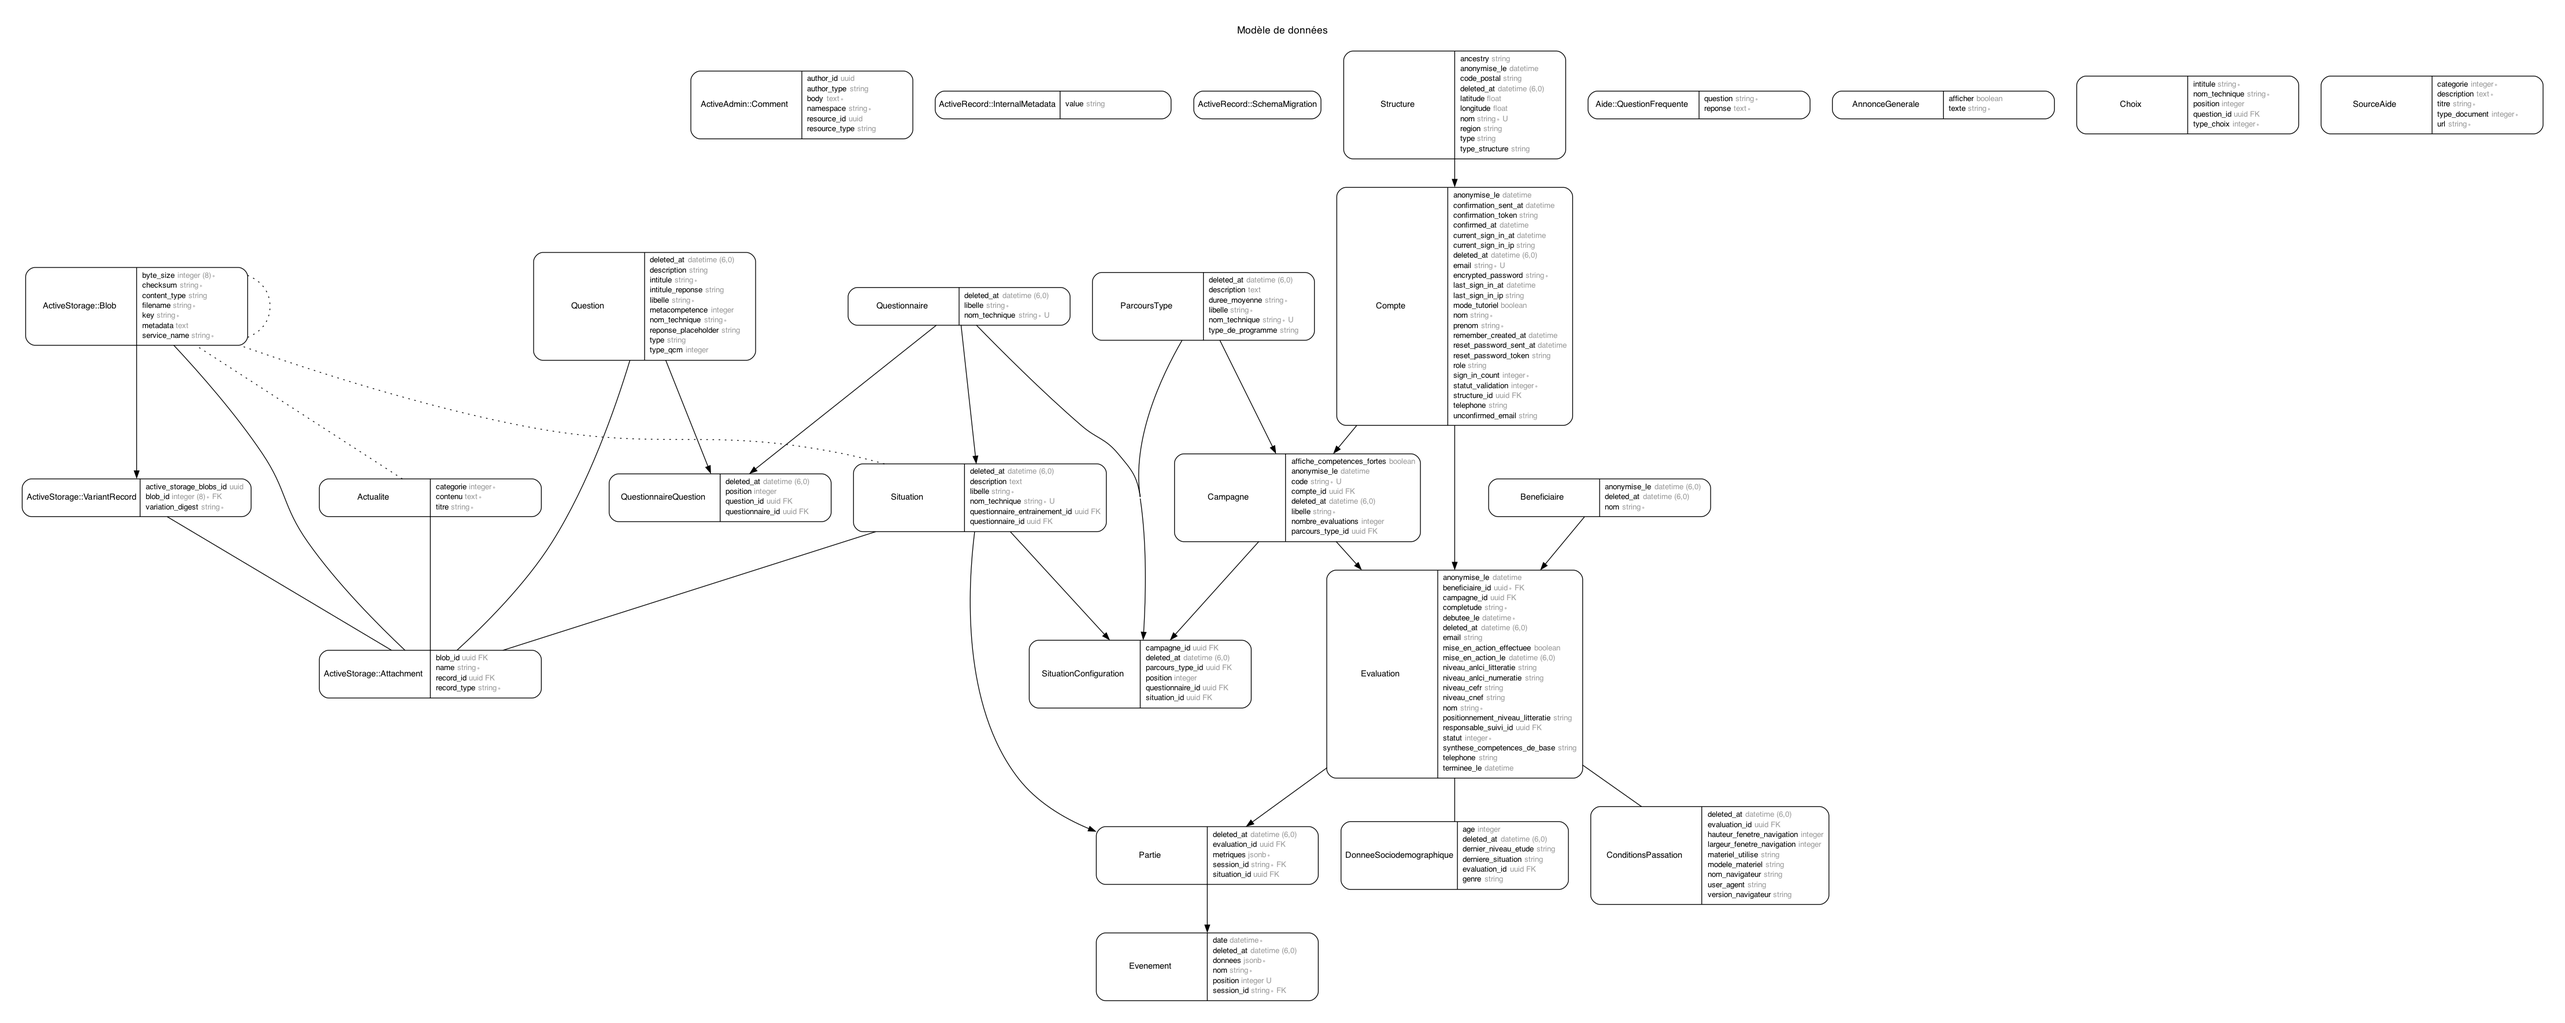
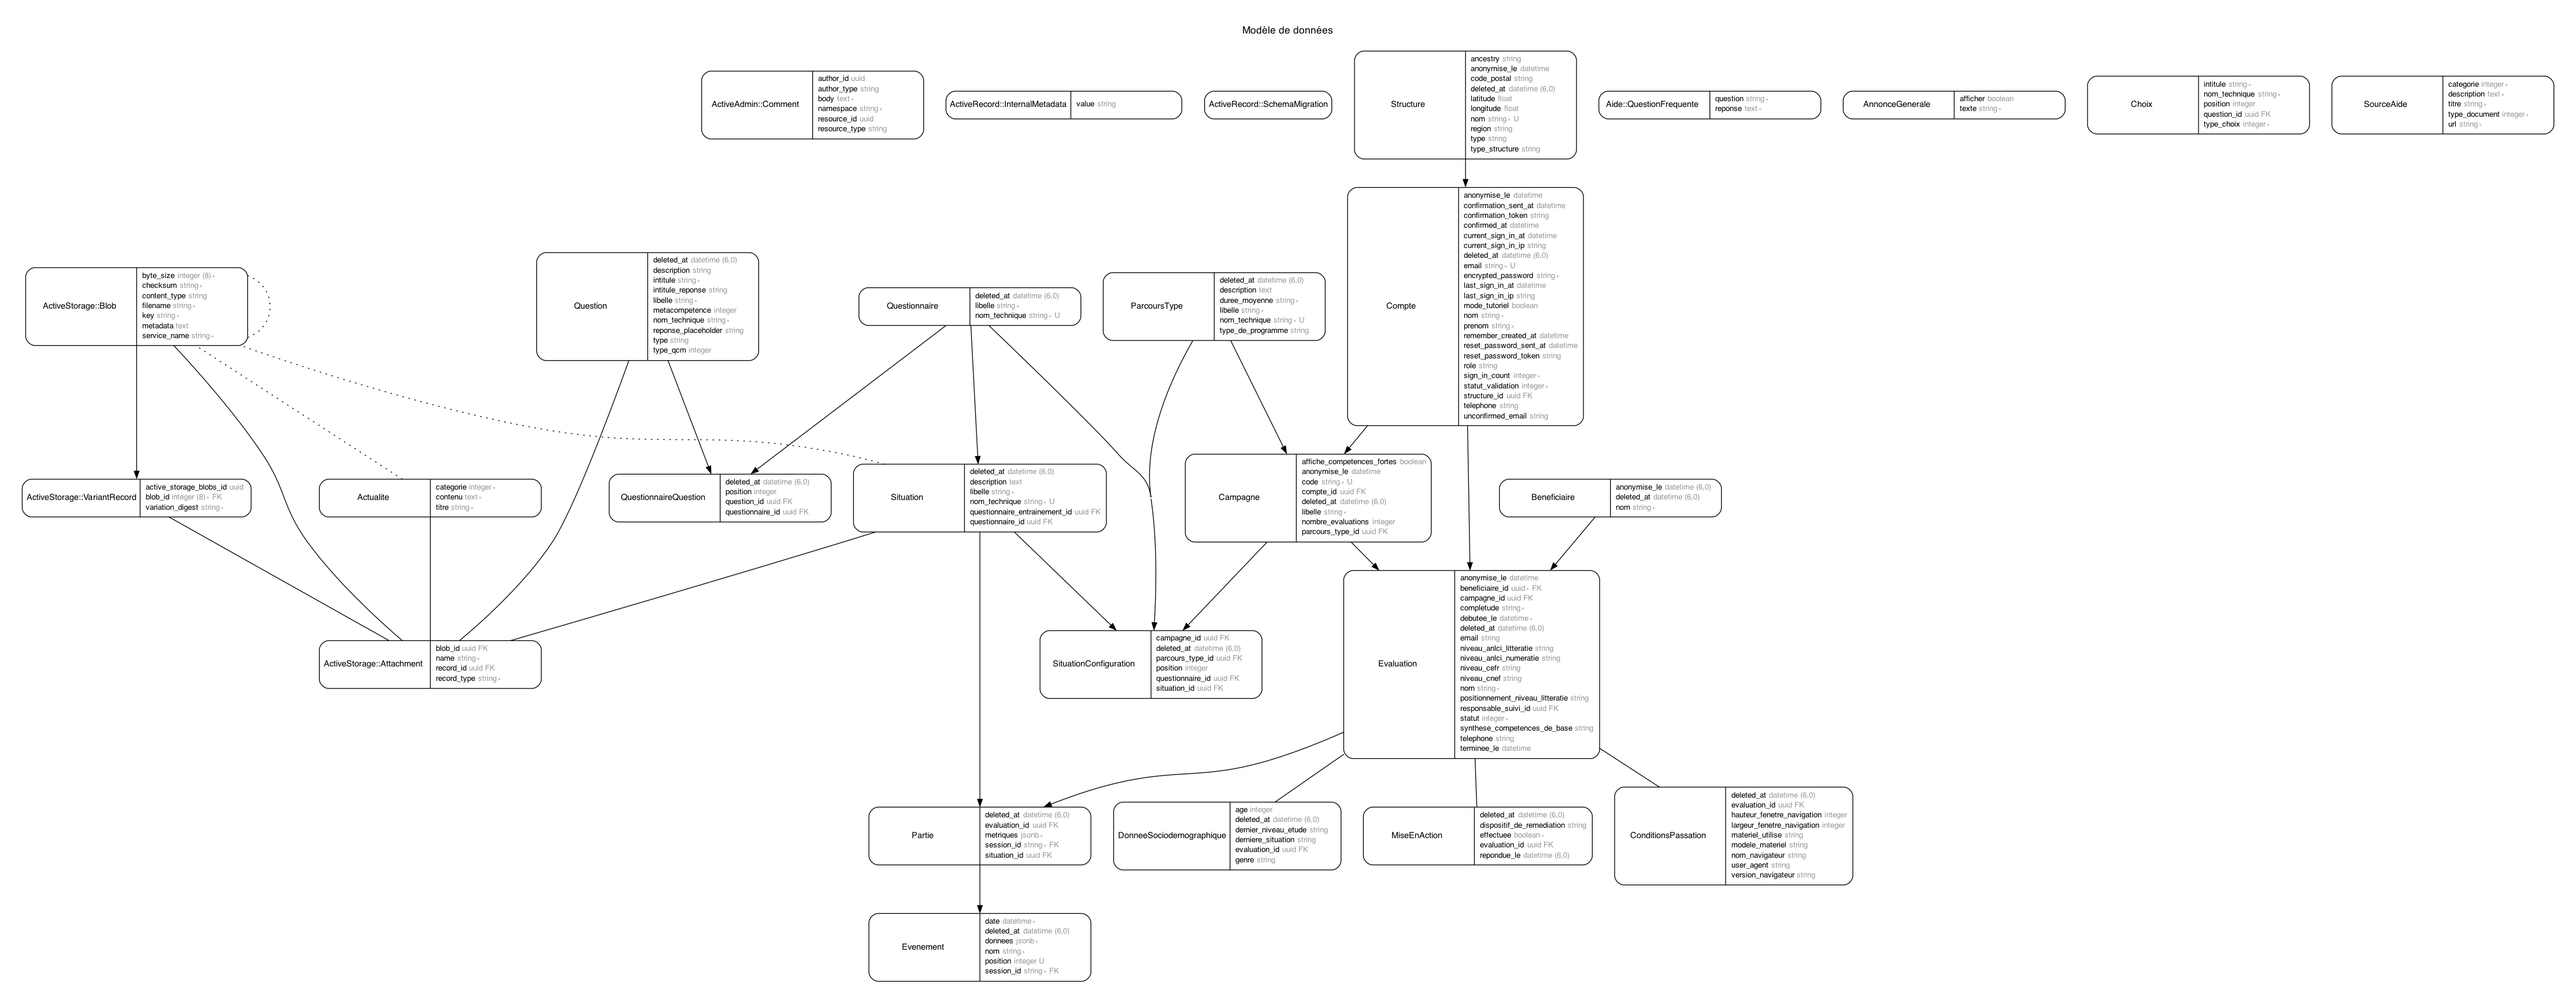
:building_construction: Créé modèle mise en action

diff --git a/spec/models/evaluation_spec.rb b/spec/models/evaluation_spec.rb
@@ -73,4 +73,92 @@ describe Evaluation do
       expect(evaluation.responsables_suivi).to contain_exactly(compte1, compte2)
     end
   end
+
+  describe '#enregistre_mise_en_action' do
+    context 'lorsque la mise en action existe déjà' do
+      let(:date_mise_en_action) { Time.zone.local(2022, 1, 1, 12, 0, 0) }
+      let!(:evaluation) do
+        create :evaluation, :avec_mise_en_action, repondue_le: date_mise_en_action
+      end
+
+      before { evaluation.enregistre_mise_en_action(false) }
+
+      it 'met à jour la réponse mais pas la date de mise en action' do
+        expect(evaluation.reload.mise_en_action.effectuee).to eq false
+        expect(evaluation.reload.mise_en_action.repondue_le).to eq date_mise_en_action
+      end
+    end
+
+    context "quand il n'y a pas de mise en action associée" do
+      let!(:evaluation) { create :evaluation }
+
+      it 'créé et enregistre true en réponse' do
+        date_du_jour = Time.zone.local(2023, 1, 1, 12, 0, 0)
+        Timecop.freeze(date_du_jour) do
+          evaluation.enregistre_mise_en_action(true)
+        end
+        expect(evaluation.mise_en_action.effectuee).to eq true
+        expect(evaluation.mise_en_action.repondue_le).to eq date_du_jour
+      end
+
+      it 'créé et enregistre false en réponse' do
+        evaluation.enregistre_mise_en_action(false)
+        expect(evaluation.mise_en_action.effectuee).to eq false
+      end
+    end
+  end
+
+  describe '#a_mise_en_action?' do
+    context "quand aucune mise en action n'est associée à l'évaluation" do
+      let!(:evaluation) { create :evaluation }
+
+      it { expect(evaluation.a_mise_en_action?).to eq false }
+    end
+
+    context "quand une mise en action est associée à l'évaluation" do
+      context 'quand la mise en action a été effectué' do
+        let!(:evaluation) { create :evaluation, :avec_mise_en_action }
+
+        it { expect(evaluation.a_mise_en_action?).to eq true }
+      end
+
+      context "quand la mise en action n'a pas été effectué" do
+        let!(:evaluation) { create :evaluation, :avec_mise_en_action, effectuee: false }
+
+        it { expect(evaluation.reload.a_mise_en_action?).to eq true }
+      end
+    end
+  end
+
+  describe '#illettrismes_sans_mise_en_action' do
+    let(:compte_admin) { create :compte_admin }
+    let(:campagne) { create :campagne, compte: compte_admin }
+    let(:evaluation_autre_compte) do
+      create :evaluation, synthese_competences_de_base: :illettrisme_potentiel
+    end
+    let!(:evaluation_sans_mise_en_action) do
+      create :evaluation, synthese_competences_de_base: :illettrisme_potentiel,
+                          campagne: campagne
+    end
+    let!(:evaluation_ni_ni) do
+      create :evaluation, synthese_competences_de_base: :ni_ni, campagne: campagne
+    end
+    let!(:evaluation_mise_en_action_true) do
+      create :evaluation, :avec_mise_en_action,
+             synthese_competences_de_base: :illettrisme_potentiel,
+             campagne: campagne
+    end
+    let!(:evaluation_mise_en_action_false) do
+      create :evaluation, :avec_mise_en_action,
+             effectuee: false,
+             synthese_competences_de_base: :illettrisme_potentiel,
+             campagne: campagne
+    end
+
+    it 'retourne les évaluations sans mise en action' do
+      ability = Ability.new(compte_admin)
+      expect(described_class.illettrismes_sans_mise_en_action(ability))
+        .to eq [evaluation_sans_mise_en_action]
+    end
+  end
 end

diff --git a/db/schema.rb b/db/schema.rb
@@ -193,9 +193,7 @@ ActiveRecord::Schema[7.0].define(version: 2023_02_15_090917) do
     t.uuid "beneficiaire_id", null: false
     t.datetime "deleted_at"
     t.integer "statut", default: 0, null: false
-    t.boolean "mise_en_action_effectuee"
     t.uuid "responsable_suivi_id"
-    t.datetime "mise_en_action_le"
     t.string "positionnement_niveau_litteratie"
     t.index ["beneficiaire_id"], name: "index_evaluations_on_beneficiaire_id"
     t.index ["campagne_id"], name: "index_evaluations_on_campagne_id"
@@ -218,6 +216,18 @@ ActiveRecord::Schema[7.0].define(version: 2023_02_15_090917) do
     t.index ["position"], name: "index_evenements_on_position"
     t.index ["session_id", "position"], name: "index_evenements_on_session_id_and_position"
     t.index ["session_id"], name: "index_evenements_on_session_id"
+  end
+
+  create_table "mises_en_action", id: :uuid, default: -> { "gen_random_uuid()" }, force: :cascade do |t|
+    t.boolean "effectuee", null: false
+    t.datetime "repondue_le"
+    t.string "dispositif_de_remediation"
+    t.datetime "deleted_at"
+    t.uuid "evaluation_id"
+    t.datetime "created_at", null: false
+    t.datetime "updated_at", null: false
+    t.index ["deleted_at"], name: "index_mises_en_action_on_deleted_at"
+    t.index ["evaluation_id"], name: "index_mises_en_action_on_evaluation_id"
   end
 
   create_table "parcours_type", id: :uuid, default: -> { "gen_random_uuid()" }, force: :cascade do |t|
@@ -362,6 +372,7 @@ ActiveRecord::Schema[7.0].define(version: 2023_02_15_090917) do
   add_foreign_key "evaluations", "campagnes"
   add_foreign_key "evaluations", "comptes", column: "responsable_suivi_id"
   add_foreign_key "evenements", "parties", column: "session_id", primary_key: "session_id", on_delete: :cascade
+  add_foreign_key "mises_en_action", "evaluations", on_delete: :cascade
   add_foreign_key "parties", "evaluations", on_delete: :cascade
   add_foreign_key "parties", "situations", on_delete: :cascade
   add_foreign_key "questionnaires_questions", "questionnaires"

diff --git a/app/models/evaluation.rb b/app/models/evaluation.rb
@@ -22,15 +22,16 @@ class Evaluation < ApplicationRecord
 
   has_one :conditions_passation, dependent: :destroy
   has_one :donnee_sociodemographique, dependent: :destroy
+  has_one :mise_en_action, dependent: :destroy
   has_many :parties, dependent: :destroy
 
   before_validation :trouve_campagne_depuis_code
-  after_update :enregistre_date, if: :saved_change_to_mise_en_action_effectuee?
   validates :nom, :debutee_le, presence: true
   validate :code_campagne_connu
 
   accepts_nested_attributes_for :conditions_passation
   accepts_nested_attributes_for :donnee_sociodemographique
+  accepts_nested_attributes_for :mise_en_action
   accepts_nested_attributes_for :beneficiaire, update_only: true
   attr_accessor :code_campagne
 
@@ -77,10 +78,6 @@ class Evaluation < ApplicationRecord
       .where(statut_validation: :acceptee)
   end
 
-  def enregistre_date
-    update(mise_en_action_le: Time.zone.now)
-  end
-
   def self.tableau_de_bord(ability)
     accessible_by(ability)
       .non_anonymes
@@ -90,11 +87,21 @@ class Evaluation < ApplicationRecord
 
   def self.illettrismes_sans_mise_en_action(ability)
     accessible_by(ability)
-      .where(mise_en_action_effectuee: nil)
+      .where.missing(:mise_en_action)
       .illettrisme_potentiel
       .non_anonymes
       .order(created_at: :desc)
       .limit(6)
+  end
+
+  def enregistre_mise_en_action(reponse)
+    mise_en_action = MiseEnAction.find_or_initialize_by(evaluation: self)
+    mise_en_action.effectuee = reponse
+    mise_en_action.save
+  end
+
+  def a_mise_en_action?
+    @a_mise_en_action ||= MiseEnAction.find_by(evaluation_id: id).present?
   end
 
   private

diff --git a/app/controllers/api/evaluations_controller.rb b/app/controllers/api/evaluations_controller.rb
@@ -59,14 +59,16 @@ module Api
     end
 
     def retrouve_ids_nested_attributes
-      if @evaluation_params[:donnee_sociodemographique_attributes]
-        @evaluation_params[:donnee_sociodemographique_attributes][:id] =
-          DonneeSociodemographique.find_by(evaluation_id: params[:id])&.id
+      nested_modeles = %i[donnee_sociodemographique
+                          conditions_passation
+                          mises_en_action]
+      nested_modeles.each do |nested_model|
+        attributs = "#{nested_model}_attributes"
+        if @evaluation_params[attributs.to_sym]
+          @evaluation_params[attributs.to_sym][:id] =
+            nested_model.to_s.camelize.constantize.find_by(evaluation_id: params[:id])&.id
+        end
       end
-      return unless @evaluation_params[:conditions_passation_attributes]
-
-      @evaluation_params[:conditions_passation_attributes][:id] =
-        ConditionsPassation.find_by(evaluation_id: params[:id])&.id
     end
 
     def retourne_erreur(evaluation)

diff --git a/spec/factories/evaluation.rb b/spec/factories/evaluation.rb
@@ -10,5 +10,20 @@ FactoryBot.define do
     trait :terminee do
       terminee_le { Time.current }
     end
+
+    trait :avec_mise_en_action do
+      transient do
+        effectuee { true }
+        repondue_le { Time.zone.local(2023, 1, 1, 12, 0, 0) }
+      end
+
+      after(:create) do |evaluation, evaluator|
+        create(:mise_en_action, evaluation: evaluation)
+        evaluation.mise_en_action.update(
+          effectuee: evaluator.effectuee,
+          repondue_le: evaluator.repondue_le
+        )
+      end
+    end
   end
 end

diff --git a/spec/models/mise_en_action_spec.rb b/spec/models/mise_en_action_spec.rb
@@ -1,0 +1,17 @@
+# frozen_string_literal: true
+
+require 'rails_helper'
+
+describe MiseEnAction, type: :model do
+  it { is_expected.to belong_to(:evaluation) }
+  it do
+    subject.evaluation = create(:evaluation, :avec_mise_en_action)
+    is_expected.to validate_uniqueness_of(:evaluation_id).case_insensitive
+  end
+
+  it "valide que effectuee n'est pas vide" do
+    should_not allow_value(nil).for(:effectuee)
+    should allow_value(true).for(:effectuee)
+    should allow_value(false).for(:effectuee)
+  end
+end

diff --git a/db/migrate/20230210112057_ajoute_mises_en_action.rb b/db/migrate/20230210112057_ajoute_mises_en_action.rb
@@ -1,0 +1,14 @@
+class AjouteMisesEnAction < ActiveRecord::Migration[7.0]
+  def change
+    create_table :mises_en_action, id: :uuid do |t|
+      t.boolean :effectuee, null: false
+      t.datetime :repondue_le
+      t.string :dispositif_de_remediation
+      t.datetime :deleted_at
+      t.index :deleted_at, name: "index_mises_en_action_on_deleted_at"
+      t.references :evaluation, index: true, foreign_key: { on_delete: :cascade }, type: :uuid
+
+      t.timestamps
+    end
+  end
+end

diff --git a/db/migrate/20230210115025_migre_mises_en_action.rb b/db/migrate/20230210115025_migre_mises_en_action.rb
@@ -1,0 +1,11 @@
+class MigreMisesEnAction < ActiveRecord::Migration[7.0]
+  class Evaluation < ApplicationRecord; end
+
+  def change
+    Evaluation.where.not(mise_en_action_effectuee: nil).find_each do |evaluation|
+      next if MiseEnAction.exists?(evaluation_id: evaluation.id)
+
+      MiseEnAction.create(effectuee: evaluation.mise_en_action_effectuee, evaluation_id: evaluation.id, repondue_le: evaluation.mise_en_action_le)
+    end
+  end
+end

diff --git a/app/models/mise_en_action.rb b/app/models/mise_en_action.rb
@@ -1,0 +1,18 @@
+# frozen_string_literal: true
+
+class MiseEnAction < ApplicationRecord
+  belongs_to :evaluation
+
+  validates :evaluation_id, uniqueness: true
+  validates :effectuee, absence: false, inclusion: { in: [true, false] }
+
+  before_save :enregistre_date
+
+  acts_as_paranoid
+
+  def enregistre_date
+    return unless repondue_le.nil?
+
+    self.repondue_le = Time.zone.now
+  end
+end

diff --git a/config/initializers/inflections.rb b/config/initializers/inflections.rb
@@ -24,6 +24,7 @@ ActiveSupport::Inflector.inflections do |inflect|
   inflect.irregular 'partie', 'parties'
   inflect.irregular 'donnee_sociodemographique', 'donnees_sociodemographiques'
   inflect.irregular 'type_de_programme', 'types_de_programme'
+  inflect.irregular 'mise_en_action', 'mises_en_action'
 end
 
 # These inflection rules are supported but not enabled by default:

diff --git a/app/admin/evaluation.rb b/app/admin/evaluation.rb
@@ -135,7 +135,7 @@ ActiveAdmin.register Evaluation do
   end
 
   member_action :mise_en_action, method: :put do
-    resource.update(mise_en_action_effectuee: params[:mise_en_action_effectuee])
+    resource.enregistre_mise_en_action(params[:mise_en_action_effectuee])
   end
 
   member_action :supprimer_responsable_suivi, method: :patch do

diff --git a/db/migrate/20230210135657_supprime_mise_en_action_evaluations.rb b/db/migrate/20230210135657_supprime_mise_en_action_evaluations.rb
@@ -1,0 +1,6 @@
+class SupprimeMiseEnActionEvaluations < ActiveRecord::Migration[7.0]
+  def change
+    remove_column :evaluations, :mise_en_action_le, :datetime
+    remove_column :evaluations, :mise_en_action_effectuee, :boolean
+  end
+end
